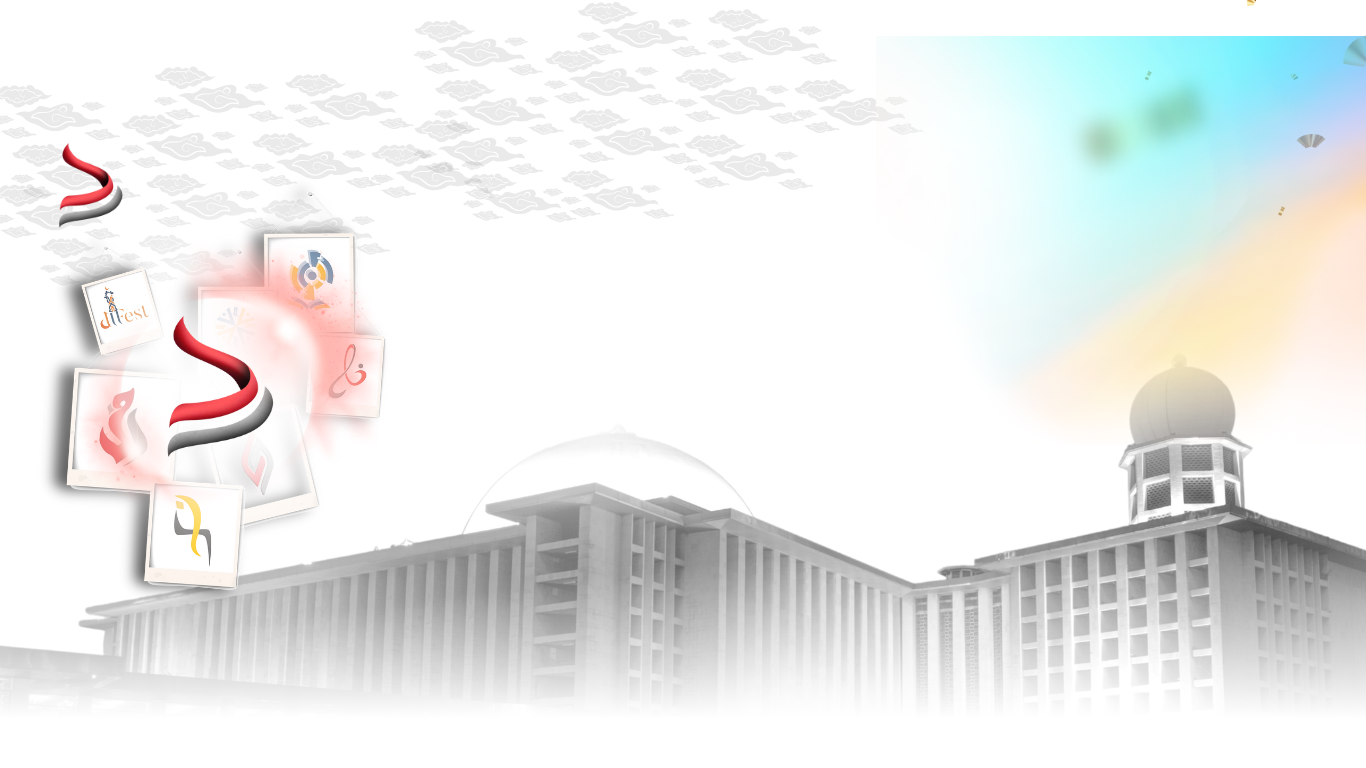
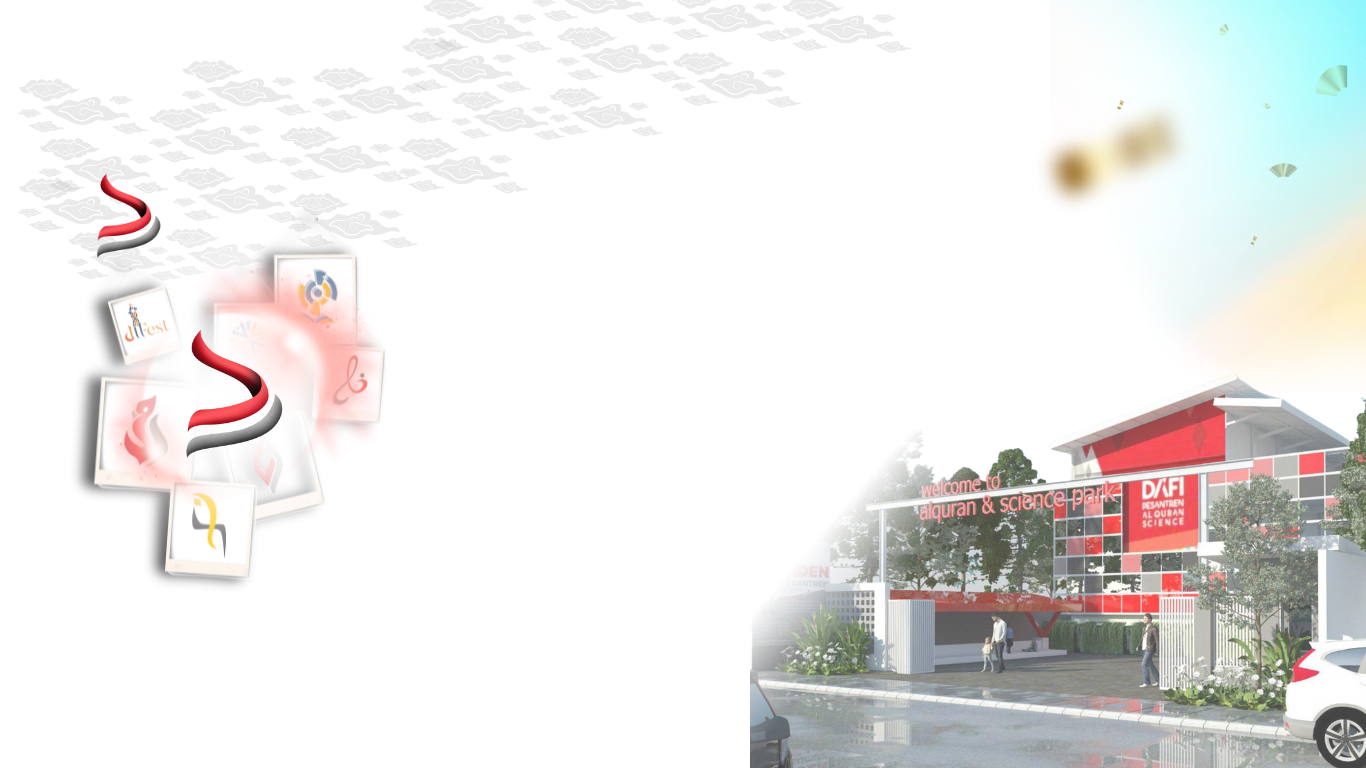
update bg about

diff --git a/resources/views/front/index.blade.php b/resources/views/front/index.blade.php
@@ -698,83 +698,87 @@
 
 
   <style>
+
     #about {
-    background-image: url('assets/img/bg-about.png'); /* Ganti dengan path yang sesuai */
-    background-size: cover; /* Menutupi seluruh area */
-    background-position: center; /* Pusatkan gambar */
-    background-repeat: no-repeat; /* Jangan ulang gambar */
-    padding: 60px 0; /* Atur padding sesuai kebutuhan */
-    color: white; /* Atur warna teks jika diperlukan */
-}
+        background-image: url('assets/img/bg-about.png');
+        background-size: cover;
+        background-position: center;
+        background-repeat: no-repeat;
+        padding: 60px 0;
+        color: white;
+    }
 
-/* .registration-form *, #maps, .maps *, .maps .card-title, .maps p {
-    font-family: 'Migra', serif !important;
-} */
-.registration-form label,
-.registration-form input,
-.registration-form textarea,
-.registration-form button {
-    font-family: 'Montserrat', sans-serif !important;
-}
-/* .registration-form-title {
-    font-family: 'Migra', serif !important;
-    font-size: 2rem;
-    font-weight: bold;
-    color: #a40000;
-    margin-bottom: 1rem;
-    text-align: center;
-} */
+    @media (max-width: 767.98px) {
+        #about {
+            background-image: url('assets/img/bg-about-m.png');
+        }
+        #services {
+            background-image: url('assets/img/bg-lomba-mobile.png');
+            background-size: cover;
+            background-position: center;
+            background-repeat: no-repeat;
+        }
+    }
 
-#registration {
-    background: linear-gradient(180deg, #fff 0%, #d3d3d3 100%);
-}
+    /* .registration-form *, #maps, .maps *, .maps .card-title, .maps p {
+        font-family: 'Migra', serif !important;
+    } */
+    .registration-form label,
+    .registration-form input,
+    .registration-form textarea,
+    .registration-form button {
+        font-family: 'Montserrat', sans-serif !important;
+    }
+    /* .registration-form-title {
+        font-family: 'Migra', serif !important;
+        font-size: 2rem;
+        font-weight: bold;
+        color: #a40000;
+        margin-bottom: 1rem;
+        text-align: center;
+    } */
 
-#maps {
-    background: linear-gradient(180deg, #d3d3d3 0%, #fff 100%) !important;
-}
-.testimonials .testimonial-item {
-  background-color: var(--surface-color);
-  box-shadow: 0px 2px 15px rgba(0, 0, 0, 0.1);
-  box-sizing: border-box; /* Ubah menjadi border-box untuk menghitung padding dan border dalam lebar */
-  padding: 30px;
-  margin: 30px 0; /* Hapus margin samping untuk membuatnya lebih lebar */
-  position: relative;
-  height: auto; /* Ubah menjadi auto untuk menyesuaikan tinggi konten */
-  width: 100%; /* Atur lebar menjadi 100% untuk mengisi kontainer */
-  max-width: 1200px; /* Atur lebar maksimum sesuai kebutuhan */
-  margin-left: auto; /* Pusatkan box */
-  margin-right: auto; /* Pusatkan box */
-}
+    #registration {
+        background: linear-gradient(180deg, #fff 0%, #d3d3d3 100%);
+    }
 
-.carousel img {
-    width: 100%; /* Pastikan gambar mengisi lebar kontainer */
-    height: auto; /* Pertahankan rasio aspek */
-}
-.service-item {
-    position: relative; /* Pastikan posisi relatif untuk elemen anak */
-    overflow: hidden; /* Sembunyikan bagian gambar yang melampaui batas card */
-}
-.service-item img {
-    width: 100%; /* Pastikan gambar mengisi lebar card */
-    height: 100%; /* Pastikan gambar mengisi tinggi card */
-    object-fit: cover; /* Memastikan gambar tidak terdistorsi */
-}
-#services {
-    background-image: url('assets/img/bg-lomba.png'); /* Ganti dengan path yang sesuai */
-    background-size: contain; /* Menutupi seluruh area */
-    background-position: center; /* Pusatkan gambar */
-    background-repeat: no-repeat; /* Jangan ulang gambar */
-    padding: 10px 0; /* Atur padding sesuai kebutuhan */
-}
+    #maps {
+        background: linear-gradient(180deg, #d3d3d3 0%, #fff 100%) !important;
+    }
+    .testimonials .testimonial-item {
+      background-color: var(--surface-color);
+      box-shadow: 0px 2px 15px rgba(0, 0, 0, 0.1);
+      box-sizing: border-box;
+      padding: 30px;
+      margin: 30px 0;
+      position: relative;
+      height: auto;
+      width: 100%;
+      max-width: 1200px;
+      margin-left: auto;
+      margin-right: auto;
+    }
 
-@media (max-width: 767.98px) {
-  #services {
-    background-image: url('assets/img/bg-lomba-mobile.png');
-    background-size: cover;
-    background-position: center;
-    background-repeat: no-repeat;
-  }
-}
+    .carousel img {
+        width: 100%;
+        height: auto;
+    }
+    .service-item {
+        position: relative;
+        overflow: hidden;
+    }
+    .service-item img {
+        width: 100%;
+        height: 100%;
+        object-fit: cover;
+    }
+    #services {
+        background-image: url('assets/img/bg-lomba.png');
+        background-size: contain;
+        background-position: center;
+        background-repeat: no-repeat;
+        padding: 10px 0;
+    }
 
 
     .animate-fade-in-scale {
